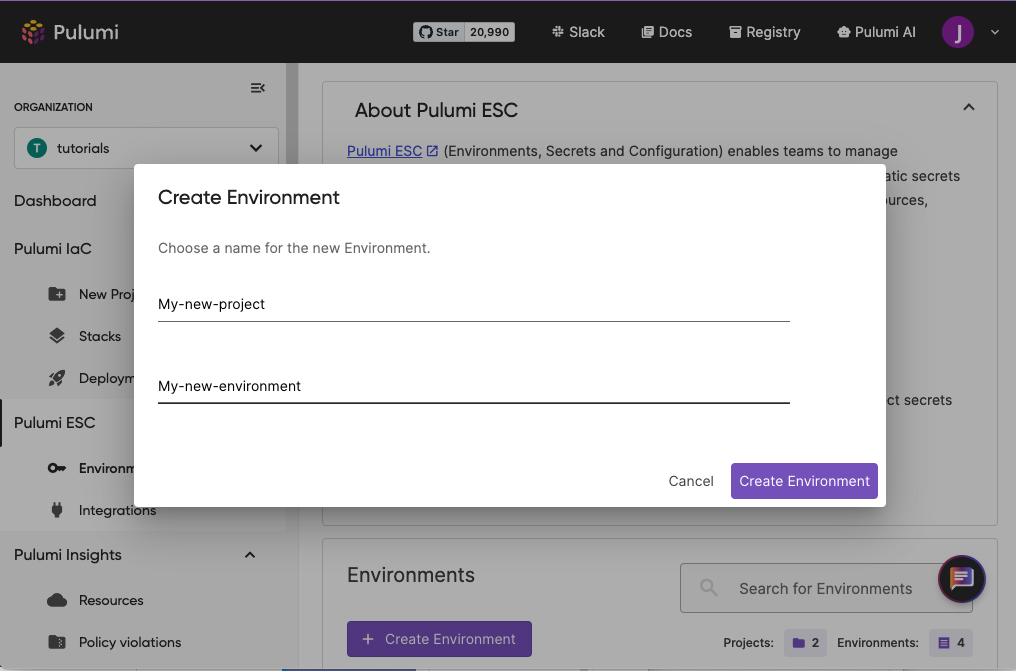
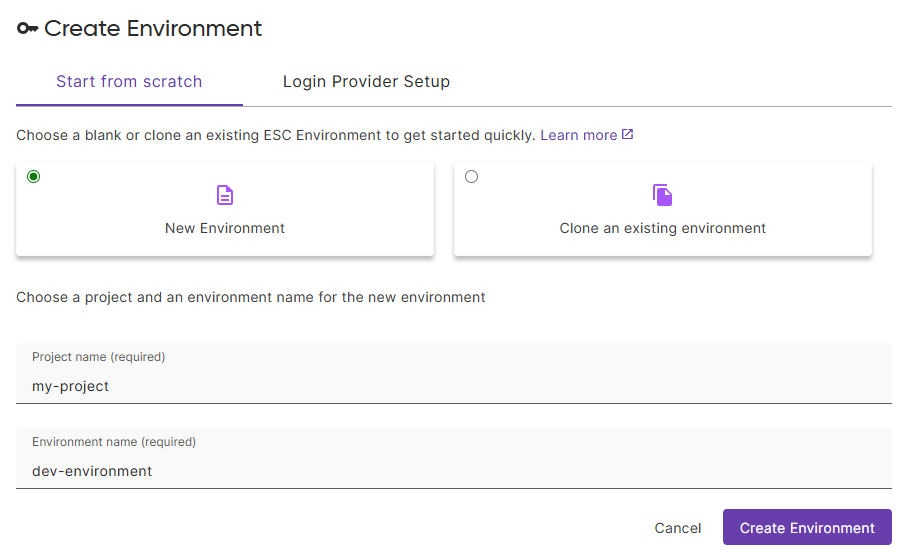
wip

diff --git a/content/docs/esc/get-started/store-and-retrieve-secrets.md b/content/docs/esc/get-started/store-and-retrieve-secrets.md
@@ -30,11 +30,11 @@ You can store and retrieve values in an environment via one of the following met
 - the Pulumi Cloud console Table view
 - the ESC CLI
 
-## Store Environment values
+## Store environment values
 
 ### Store via the document view
 
-To store values in your environment using the Document view, first click on the name of the environment to open it. You will be presented with a split pane view. The left side is the YAML-based code document view, and this is where you will write the definition of your environment configuration. The right side will show a preview of your configuration in JSON format.
+To store values in your environment using the Document view, first select the name of the environment to open it. You will be presented with a split pane view. The left side is the YAML-based code document view, and this is where you will write the definition of your environment configuration. The right side will show a preview of your configuration in JSON format.
 
 ![Open environment in Pulumi ESC console](/docs/esc/assets/esc-open-env.png)
 
@@ -47,23 +47,23 @@ values:
     fn::secret: "demo-password-123"
 ```
 
-As shown above, you can specify that a value should be stored as a secret by using the `fn::secret` function. Once you have added the configuration, click the **Save** button located at the bottom of the editor.
+As shown above, you can specify that a value should be stored as a secret by using the `fn::secret` function. Once you have added the configuration, select the **Save** button located at the bottom of the editor.
 
-{{< video title="Adding values to the environment in the Pulumi ESC console" src="https://www.pulumi.com/uploads/esc-add-env-values.mp4" autoplay="true" loop="true" >}}
+{{< video title="Adding values to an environment using Document view in the Pulumi ESC console" src="https://www.pulumi.com/uploads/esc-add-env-values.mp4" autoplay="true" loop="true" >}}
 
 The **Environment preview** pane on the right-hand side will then update to show your added configuration in JSON format. You will notice that the value of "myPassword" has been hidden from view in both the definition and preview panes.
 
-### Store via the Table view
+### Store via the table view
 
-To store values in your environment using the Document view, first click on the name of the environment to open it. From the **Editor** menu, click the **Table view** button to switch the editor from the document YAML view to the table view.
+To store values in your environment using the Table view, first select the name of the environment to open it. From the **Editor** menu, select the **Table view** button to switch the editor from the document YAML view to the table view.
 
-{{< video title="Adding values to the environment in the Pulumi ESC console" src="https://www.pulumi.com/uploads/esc-open-env-table-view.mp4" autoplay="true" loop="true" >}}
+{{< video title="Switching to Table view in the Pulumi ESC console" src="https://www.pulumi.com/uploads/esc-open-env-table-view.mp4" autoplay="true" loop="true" >}}
 
-Next, under the **Configuration** section, you will see fields labeled **Path** and **Value**. You will define your configuration values using these fields. In the **Path** field, type in `myEnvironment`, and in the **Value** field, type in `development`. Then click **Done** and **Save**.
+Next, under the **Configuration** section, you will see fields labeled **Path** and **Value**. You will define your configuration values using these fields. In the **Path** field, type in `myEnvironment`, and in the **Value** field, type in `development`. Then select **Done** and **Save**.
 
 ![Adding values to the environment in the Pulumi ESC console](/docs/esc/assets/esc-add-env-values.png)
 
-Next, click the **+Secret/config** button to create a new configuration. This time, you will create a configuration that will be stored as a secret. To do so, enter `myPassword` for the value of **Path** and `demo-password-123` for the value of **Value**. Select the **secret** option from the drop-down to indicate that this configuration will be stored as a secret, then click **Done** and **Save**.
+Next, select the **+Secret/config** button to create a new configuration. This time, you will create a configuration that will be stored as a secret. To do so, enter `myPassword` for the value of **Path** and `demo-password-123` for the value of **Value**. Select the **secret** option from the drop-down to indicate that this configuration will be stored as a secret, then select **Done** and **Save**.
 
 ![Adding values to the environment in the Pulumi ESC console](/docs/esc/assets/esc-add-secret-value.png)
 
@@ -92,25 +92,25 @@ Alternatively, you can directly [edit your environment file with a code editor](
 esc env edit <project-name>/<environment-name>
 ```
 
-Using this method enables you to add your configuration values in the same way that you would [via the console](/docs/esc/get-started/store-and-retrieve-secrets/#store-via-the-console).
+Using this method enables you to add your configuration values in the same way that you would [via the document view](/docs/esc/get-started/store-and-retrieve-secrets/#store-via-the-document-view).
 
-## Retrieve Environment values
+## Retrieve environment values
 
 ### Retrieve via the Document view
 
-To retrieve values using the Document view, click the **Open** button. This will return any statically defined plain-text values and definitions.
+To retrieve values using the Document view, select the **Open** button. This will return any statically defined plain-text values and definitions.
 
 ![Clicking the open button in the Pulumi ESC console](/docs/esc/assets/esc-open-environment.png)
 
-As shown above, it does not return the value of secrets defined, nor does it resolve values that are dynamically generated from a provider. To view these values, you will need to click the **Show secrets** slider.
+As shown above, it does not return the value of secrets defined, nor does it resolve values that are dynamically generated from a provider. To view these values, you will need to select the **Show secrets** slider.
 
-![Clicking the show secrets slider the Pulumi ESC console](/docs/esc/assets/esc-show-secret-document-view.png)
+![Clicking the show secrets slider in the Pulumi ESC console](/docs/esc/assets/esc-show-secret-document-view.png)
 
-### Retrieve via the Table view
+### Retrieve via the table view
 
-Non-secret configuration values remain visible in the Table view after their creation, but secret values are automatically hidden. To reveal the value of a secret using the Table view, click the small eye icon.
+Non-secret configuration values remain visible in the Table view after their creation, but secret values are automatically hidden. To reveal the value of a secret using the Table view, select the small eye icon.
 
-{{< video title="Clicking the show secrets slider the Pulumi ESC console" src="https://www.pulumi.com/uploads/esc-show-secret-table-view.mp4" autoplay="true" loop="true" >}}
+{{< video title="Revealing secrets using the show secrets toggle in the Pulumi ESC console" src="https://www.pulumi.com/uploads/esc-show-secret-table-view.mp4" autoplay="true" loop="true" >}}
 
 ### Retrieve via the CLI
 

diff --git a/content/docs/esc/get-started/begin.md b/content/docs/esc/get-started/begin.md
@@ -11,11 +11,13 @@ menu:
 aliases:
 ---
 
-Before you get started using Pulumi ESC, let's run through a few quick steps to ensure your environment is set up correctly.
+Before you get started using Pulumi ESC, complete the following prerequisites to set up your environment.
 
 ### Create a Pulumi account
 
-Pulumi ESC is a service of Pulumi Cloud, meaning you will need to create a Pulumi account to be able to use it. To do so, navigate to the [Pulumi Cloud console](https://app.pulumi.com) and create a new account. Once created, you can [optionally create an access token](/docs/administration/access-identity/access-tokens/). Doing so will provide you an alternative way to sign into the Pulumi Cloud via the CLI. The token can also be used to automate your usage of the Pulumi Cloud using the REST API.
+Pulumi ESC is a service of Pulumi Cloud, meaning you will need to create a Pulumi account to be able to use it. To do so, navigate to the [Pulumi Cloud console](https://app.pulumi.com) and create a new account.
+
+Once created, you can [optionally create an access token](/docs/administration/access-identity/access-tokens/). Doing so will provide you an alternative way to sign into the Pulumi Cloud via the CLI. The token can also be used to automate your usage of the Pulumi Cloud using the REST API.
 
 ### Install the Pulumi ESC CLI
 
@@ -47,7 +49,7 @@ $ curl -fsSL https://get.pulumi.com/esc/install.sh | sh
 
 <div class="mb-6 border-solid border-b-2 border-gray-200">
 <div class="w-full">
-<h3 class="no-anchor pt-4"><i class="fas fa-download pr-2"></i>Windows Binary Download</h3>
+<h3 class="no-anchor pt-4"><i class="fas fa-download pr-2"></i>Windows binary download</h3>
 <p>
 <a class="btn btn-secondary mx-2" href="https://get.pulumi.com/esc/releases/esc-v{{< latest-version-esc >}}-windows-x64.zip">amd64</a>
 </p>
@@ -81,7 +83,7 @@ Logged in to https://api.pulumi.com/ as your-pulumi-org (https://app.pulumi.com/
 
 ### [Optional] Configure OpenID Connect (OIDC)
 
-Pulumi supports [OpenID Connect (OIDC) integration](/docs/esc/environments/configuring-oidc) across various services including Pulumi ESC. OIDC enables secure interactions between Pulumi and cloud providers by leveraging signed, short-lived tokens issued by the Pulumi Cloud. Use one of the following guides below to configure OIDC between Pulumi ESC and your chosen cloud provider:
+Pulumi supports [OpenID Connect (OIDC) integration](/docs/esc/environments/configuring-oidc) across various services including Pulumi ESC. OIDC enables secure interactions between Pulumi and cloud providers by leveraging signed, short-lived tokens issued by the Pulumi Cloud. Use one of the following guides to configure OIDC between Pulumi ESC and your chosen cloud provider:
 
 - [OIDC Configuration for AWS](/docs/esc/environments/configuring-oidc/aws/)
 - [OIDC Configuration for Azure](/docs/esc/environments/configuring-oidc/azure/)

diff --git a/content/docs/esc/get-started/create-environment.md b/content/docs/esc/get-started/create-environment.md
@@ -1,7 +1,7 @@
 ---
 title_tag: Create a New Environment | Pulumi ESC
 title: Create environment
-h1: "Pulumi ESC: Create A New Environment"
+h1: "Pulumi ESC: Create a New Environment"
 meta_desc: This page provides an overview on how to create a new Pulumi ESC environment.
 weight: 3
 menu:
@@ -29,9 +29,9 @@ This tutorial will walk you through how to create a new environment.
 
 To create an environment via the console, navigate to [Pulumi Cloud](https://app.pulumi.com) and select the **Environments** link in the left-hand menu.
 
-You will be directed to the Environments landing page. To create a new environment, click the **Create Environment** button. Enter a name for the project your environment should belong in (e.g. `my-project`) and a name for your environment (e.g., `dev-environment` for a development environment) and then click **Create Environment**. You will then be directed to the environment definition page.
+You will be directed to the Environments landing page. Select the **Create Environment** button to open the Create Environment flyout panel. Ensure the **Start from scratch** tab is selected and the **New Environment** option is chosen. Enter a project name (e.g., `my-project`) and an environment name (e.g., `dev-environment`), then select **Create Environment**. You will be directed to the environment definition page.
 
-![Creating a new environment in the Pulumi ESC console](/docs/esc/assets/esc-create-environment.png)
+![Create Environment flyout panel showing Start from scratch tab with New Environment option selected, project name field containing 'my-project', and environment name field containing 'dev-environment'](/docs/esc/assets/esc-create-environment.png)
 
 ### Create via the CLI
 

diff --git a/content/docs/esc/get-started/_index.md b/content/docs/esc/get-started/_index.md
@@ -14,9 +14,11 @@ aliases:
 
 In a typical application or infrastructure development workflow, there's often a need to maintain multiple environments such as development, staging, and production. Each of these environments might have its own set of configuration values: API endpoints, database connection strings, third-party secrets, and more.
 
-Hardcoding these values or keeping them inside source code is a security risk and makes managing configurations complex. [Pulumi ESC (Environments, Secrets and Configuration)](/docs/esc/) offers a centralized store to manage configuration data, plain-text data, and secrets.
+Hardcoding these values or keeping them inside source code is a security risk and makes managing configurations complex.
 
-In this tutorial, we’ll demonstrate how to use Pulumi ESC as well as the power of this service in managing configuration and secrets.
+[Pulumi ESC (Environments, Secrets and Configuration)](/docs/esc/) offers a centralized store to manage configuration data, plain-text data, and secrets.
+
+In this tutorial, you will learn how to use Pulumi ESC to manage configuration and secrets.
 
 Before you begin, you can watch the following video which provides a high level overview of how Pulumi ESC works:
 
